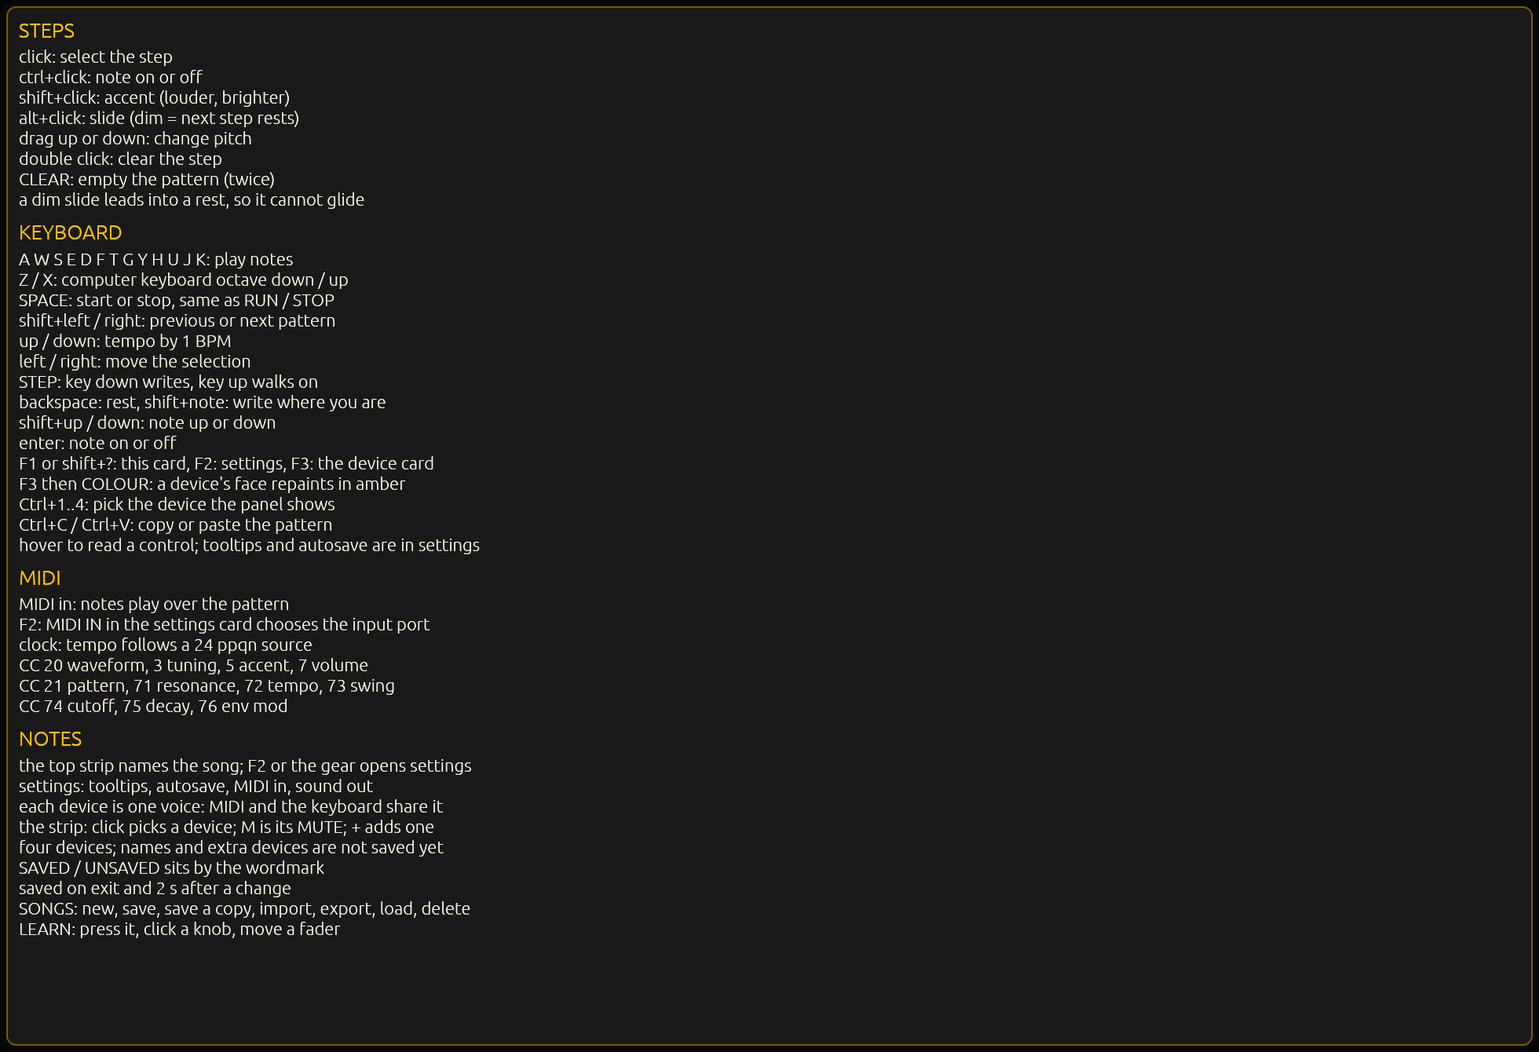
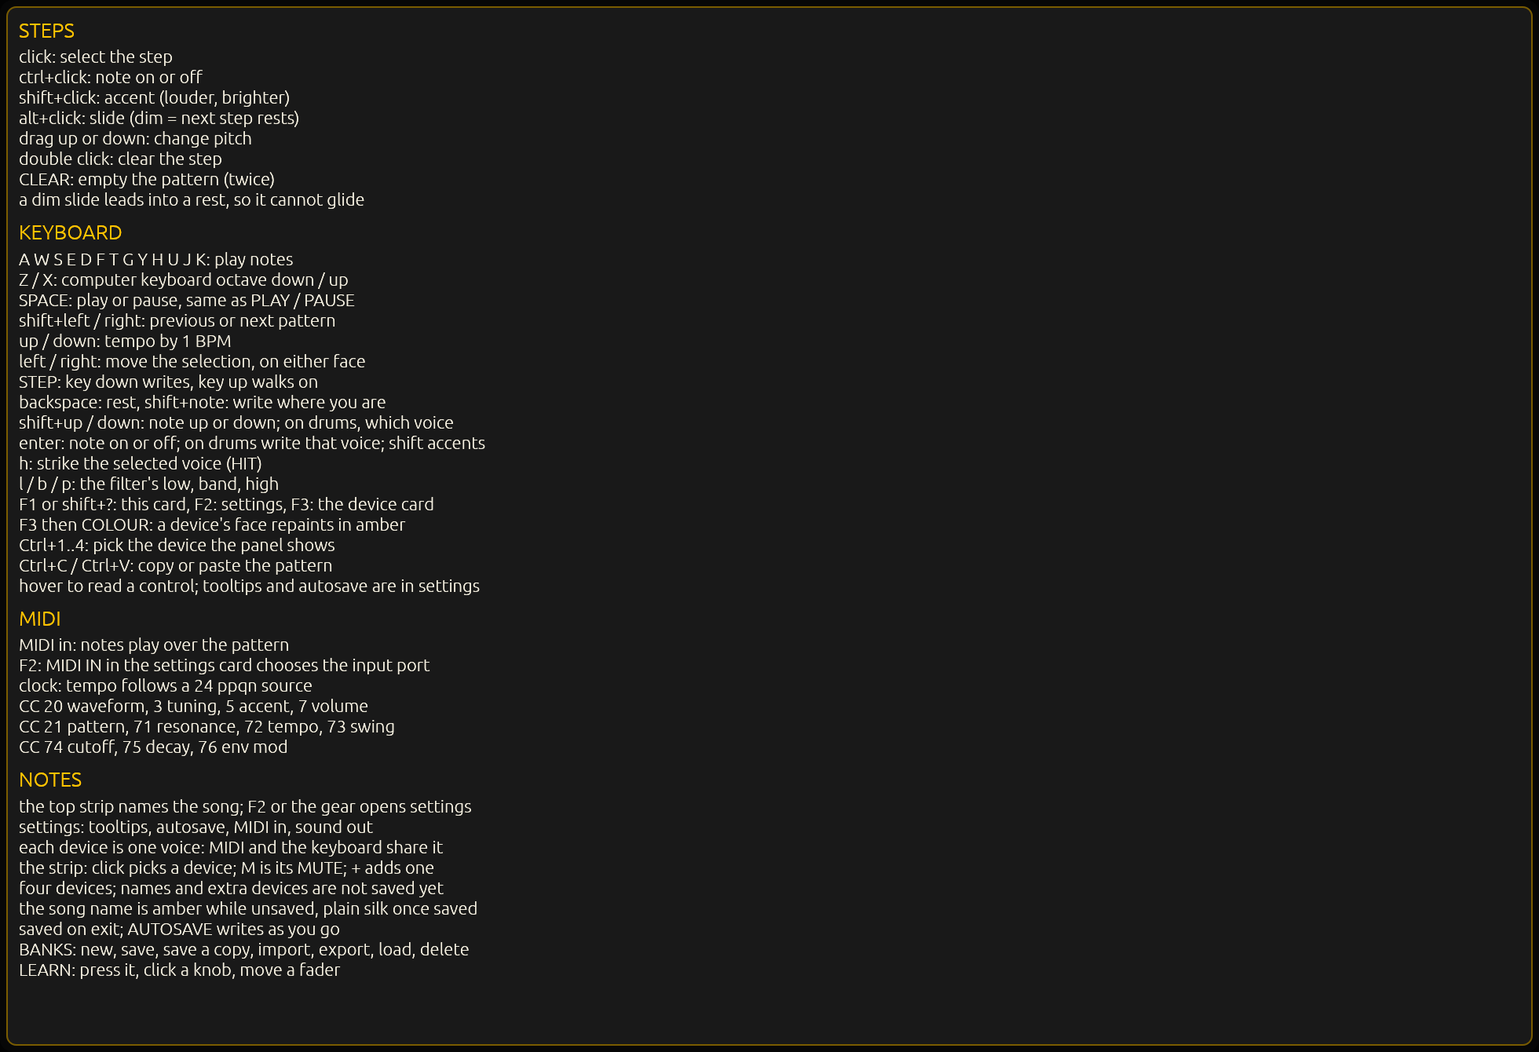
docs(guide): the drum face's letters, underlines and tooltips, and its pictures

Changed region(s): [[0.0, 0.3978, 0.3112, 0.9485], [0.0622, 0.2754, 0.2179, 0.306], [0.1867, 0.3366, 0.2179, 0.3672]]

diff --git a/rust/crates/acid-app/src/state.rs b/rust/crates/acid-app/src/state.rs
@@ -391,7 +391,7 @@ impl SharedState {
         self.kit.store(Arc::new(kit));
     }
 
-    /// Ask for a voice to be heard with the transport stopped. The renderer drains it at the next block.
+    /// Ask for a voice to be heard, stopped or running. The renderer drains it at the next block.
     pub fn request_audition(&self, drum: Drum) {
         // `Drum::index` is the only spelling of a voice's slot, and this is the one place it becomes the `-1`-sentinel number.
         self.audition.store(drum.index() as i32, Ordering::Relaxed);

diff --git a/docs/guide/src/img/README.md b/docs/guide/src/img/README.md
@@ -30,11 +30,18 @@ the build: the pictures are committed PNGs, and this note is what makes them rep
   The app was launched on a first run and then driven: `+` → `DRUMS` added `DRUMS 2`, which arrives on `808` (so the browser reads
   `NOW: 808 - READ ONLY`), then `BANKS` → `Hard Techno Acid` twice loaded that demo's drum bank into it (the session was unsaved,
   so the row asked first), and `F3` → the card's `KIT` row opened the browser, which is where `kit-browser.png` comes from. No
-  device was saved, so that picture shows a first run's rack with one extra machine on it. **`drum-face.png` was retaken on
-  2026-11-20 in the step-editor round** (`TAKKA_ACID_DATA_DIR=/tmp/takka-guide-06`, `Xvfb :87 -screen 0 2200x1500x24`): `+` →
-  `DRUMS`, the notice waited out, the pointer parked outside the window — so the picture shows the column that round added, on a
-  face with no bank loaded. The column sits on step 1, which is also a beat-framed column; the stroke is full height where the
-  frame is per cell, so the two read apart in the picture.
+  device was saved, so that picture shows a first run's rack with one extra machine on it.
+- **The keys-and-tooltips round's two pictures** (`drum-face.png`, `help-card.png`) were retaken on 2026-11-20 from a session of
+  their own: `TAKKA_ACID_DATA_DIR=/tmp/takka-guide-07`, emptied first, on `Xvfb :89 -screen 0 2200x1500x24` — `DISPLAY=:89
+  xdotool getdisplaygeometry` said `2200 1500` before the app was launched, and `xdotool getwindowgeometry` then said
+  `1960x1340`. `+` → `DRUMS` added `DRUMS 2`, which arrives on `808`; the notice was waited out and the pointer parked outside
+  the window for `drum-face.png`, which is where the new underlines under `H` on `HIT` and `L`/`B`/`P` on the filter are visible
+  (checked in a separate `-crop` grab before the picture was kept, never by cutting the finished image). `F1` put the card up
+  for `help-card.png`, sent as `xdotool key --window <id> F1`: under Xvfb with no window manager the window never takes the
+  keyboard focus, so a bare `xdotool key` is delivered nowhere and the grab comes out as the face again. The pointer was parked
+  outside the window for that grab too, so no tip and no notice is in either picture. The grid is empty because a first run's
+  drum machine has no bank; `drum-face.png`'s step column sits on step 1, which is also a beat-framed column, and the stroke is
+  full height where the frame is per cell, so the two read apart.
 
 ## The images
 
@@ -42,13 +49,13 @@ the build: the pictures are committed PNGs, and this note is what makes them rep
 |---|---|---|
 | `img/first-sound.png` | a first run: one device in the strip, `SONG New song` with the name in amber (the session is unsaved), pattern `A1`, the Slow Acid demo, stopped | launch, wait for the window |
 | `img/running.png` | the transport running: `PLAY` lit in the tape deck, `PAUSE` dark | `space` from the first-sound state |
-| `img/help-card.png` | the help card over the panel | `F1` |
+| `img/help-card.png` | the help card over the panel, with the drum face's keys on it: `left / right` on either face, the drum voice on `shift+up` / `down`, the write and its accent on `enter`, and the two lines of its own — `h` and `l` / `b` / `p` | `F1` on the drum session above, pointer parked outside the window |
 | `img/settings-card.png` | the settings card, `MIDI IN` naming the port in use | `F2` |
 | `img/banks-card.png` | the bank browser: `New song`, the five demo banks, an empty `MY BANKS` | click `BANKS` |
 | `img/device-card.png` | the device card for `ACID 1`: `COLOUR BLACK`, one port, `MUTE OFF` | `F3` |
 | `img/picker.png` | the picker: the `ACID` and `DRUMS` rows and `NAMES AND EXTRA DEVICES ARE NOT SAVED YET` | click `+` at the strip's right end |
 | `img/theme-list.png` | the card for `ACID 1` with the theme list open over it, the dot on `BLACK`, eleven of the twenty-two rows and the scroll thumb | `F3`; click `COLOUR`; park the pointer away from the knobs before grabbing, or their tooltip lands in the picture |
-| `img/drum-face.png` | the drum machine's face: `DRUMS 2` selected, `KICK` the selected voice, the grid empty with **the first step's column lit** — the step a key writes to — the seven voice dials, `LP | BP | HP`, `SHUFFLE` and `HIT`, and `KIT 808` at the right-hand end of the caption line above the dials | from the picker: click `+`, click `DRUMS`, wait for the notice to clear, and park the pointer outside the window (a hover tooltip would land in the picture). Retaken in the drum step-editor round, so the picture shows the selection the round added; the pattern is left empty on purpose, as a first run's drum machine is |
+| `img/drum-face.png` | the drum machine's face: `DRUMS 2` selected, `KICK` the selected voice, the grid empty with **the first step's column lit** — the step a key writes to — the seven voice dials, `LP | BP | HP` with `L`, `B` and `P` underlined on it, `SHUFFLE`, and `HIT` with its `H` underlined, and `KIT 808` at the right-hand end of the caption line above the dials | from the picker: click `+`, click `DRUMS`, wait for the notice to clear, and park the pointer outside the window (a hover tooltip would land in the picture). Retaken in the keys-and-tooltips round, so the picture says its own keys by eye; the pattern is left empty on purpose, as a first run's drum machine is |
 | `img/kit-browser.png` | the kit browser: `FACTORY` with `808`, `909` and `Acoustic`, each `- READ ONLY`, `MY KITS` under them and empty, `NOW: 808 - READ ONLY` — the kit a drum machine arrives on | `F3` on the drum device; click the card's `KIT` row |
 | `img/two-devices.png` | two devices, `ACID 1` black and selected, `ACID 2` on `FESTIVAL CITRUS` | from the picker, click `ACID`; `ctrl+2`; `F3`; click `COLOUR`; click the `FESTIVAL CITRUS` row; `Escape`; `ctrl+1` |
 | `img/strip.png` | the same strip, cropped: a black cell, a teal one, and `+` | `-crop 1960x76+0+24` in the state above |

diff --git a/plans/phase 4/07-the-drum-keys-and-tooltips.md b/plans/phase 4/07-the-drum-keys-and-tooltips.md
@@ -280,4 +280,37 @@ which are plan 06's.
       here") while this card tells the player they work**, so the push still depends on Task 5.
       Gates: `cargo test --workspace` **899**, clippy `-D warnings`, `fmt --check`.
 
-- [ ] Task 5 —
+- [x] **Task 5 — the book and the pictures.** Page 22: the filter's `l`, `b` and `p`, the underlines (`H` on `HIT`, `L`, `B` and
+      `P` under the filter's sides), the hover help, and `HIT` "stopped or running" in both places that make the claim; the
+      *No per-voice hover help yet* bullet is deleted outright and a negative guard in `check.sh` keeps it from returning. Page
+      15: the "letters are silent this phase" sentence now names `h`, `l` / `b` / `p` and the walk, the drum editing paragraph
+      gains the filter's letters and the underline, and the "one voice" paragraph's letter list names them too. Page 20: a new
+      keyboard-table row for `l` / `b` / `p`, and the drum-face paragraph gains the underline and hover sentences. `check.sh`
+      pins '`l`, `b` and `p`', 'control is underlined on it', 'stopped or running' and 'Every control in the row explains
+      itself', with the two older drum pins ('walk it up and down the grid', 'strikes the selected voice') untouched.
+      **Both pictures retaken** on `Xvfb :89 -screen 0 2200x1500x24`: `xdotool getdisplaygeometry` said `2200 1500` before the
+      app was launched, `getwindowgeometry` said `1960x1340`, `TAKKA_ACID_DATA_DIR=/tmp/takka-guide-07` emptied, `+` → `DRUMS`,
+      the notice waited out, the pointer parked outside the window for `drum-face.png`; `F1` for `help-card.png`, sent as
+      `xdotool key --window <id> F1` because an unfocused window under Xvfb ignores a bare key and the first grab of the card
+      came out as the face again. Both grabs were looked at: the `H` on `HIT` and the `L`/`B`/`P` on the filter are visible, the
+      card's five drum lines are on it and the card still fits, and no tip or notice is in either frame (checked in a separate
+      `-crop` grab first, never by cutting the finished picture). `img/README.md` gained the session paragraph and both rows;
+      `00-phase-4.md` lists 07 as a finished round and its State line says **899** tests and `SAVE_VERSION` **11**; the
+      wishlist's "The help card knows only the 303's keys" is deleted, per that file's own rule.
+      **Mutations: 4 of 4 caught** (`.superpowers/mutate_guide.py`): the underline claim gone from all three pages, the `HIT`
+      claim back to stopped-only, the retired bullet returned, and the filter's letters gone — each fails `check.sh` by name.
+      **Review: BLOCK on three Importants and three Minors, all actioned.** (1) "each name what they do and the key that does
+      it" was false for the seven dials — no key presses them — so the sentence now says the dials say what they do and the
+      filter key and `HIT` name the letter. (2) Page 15 had a duplicated "On a drum device" left from the rewrite, leaving the
+      sentence without a subject. (3) Page 22 contradicted itself on this round's own fact — `HIT` "with the bar stopped" in one
+      paragraph, "stopped or running" in the next — and both now agree with the tip. Of the Minors: the hover claim got a
+      positive pin (it was only negatively guarded), the wishlist deletion left a double blank line, and 07 is written in the
+      list as a finished round rather than "in flight". Of the notes: page 15's letter list now names the filter's letters; the
+      `state.rs` doc comment for `request_audition` still said "with the transport stopped" — a doc the round's tip exposed as a
+      lie — so it says "stopped or running" now and the rust gates were re-run for it; and the README's old step-editor-round
+      bullet is folded into the new session paragraph, with the column still described. **The pin for the underline claim is
+      narrower than the first attempt** ('control is underlined on it', not 'underlined on it') because the picture ledger uses
+      the shorter phrase in its own row — which is what a mutation caught, since the ledger alone would have satisfied the
+      pin while all three pages lost the claim.
+      Gates: `cargo test --workspace` **899**, clippy `-D warnings`, `fmt --check`, `./docs/guide/check.sh` ok.
+

diff --git a/docs/guide/src/22-the-drum-machine.md b/docs/guide/src/22-the-drum-machine.md
@@ -38,14 +38,15 @@ stops at the top row and the bottom one rather than wrapping round. While a card
 keys, because a card is modal.
 
 **`h`** strikes the selected voice — the same hit as `HIT` — so a kit can be walked with the arrows and heard with one key. A
-card does not stop it: a hit is a sound, not an edit. The rest of the letters stay silent here; they are the 303's notes.
+card does not stop it: a hit is a sound, not an edit. The other letters play nothing here — they are the 303's notes — apart
+from the filter's `l`, `b` and `p`, below.
 
 The step is edited the same way, one step over: **`left` / `right` move the selected step**, a lit column across the sixteen
 rows, and **`enter` writes the selected voice into it** — silently, as a 303 step is written without a sound; a second `enter`
 takes the hit off again. **`shift+enter`** is the grid's accent gesture, so an empty cell takes an accented hit, a plain strike
 is accented and an accented one is taken off. The selection stays where it is after a write, unlike the 303's `STEP`, because a
 step here holds sixteen voices and a hand writes several before moving on. `HIT` and `h` still play the voice without writing
-it, either of them with the bar stopped.
+it, either of them with the bar stopped or running.
 
 ## The dials
 
@@ -61,10 +62,15 @@ The seven knobs stay where the 303 puts them and are **the selected voice's**, n
 | `RESONANCE` | how much the corner is emphasised |
 | `TUNE` | the voice's pitch, in semitones either way |
 
-Beside the waveform switch's place is a three-way key, **`LP | BP | HP`** — low-pass, band-pass, high-pass. It is a different
-filter from the 303's on purpose (a state-variable one, where the 303's is a ladder), but its cutoff and resonance are the
-303's own knob positions, so a `BP` open hat and a `LP` kick are the same idea heard two ways. **`HIT`** plays the
-selected voice once, with the transport stopped, which is how a voice is tuned without writing it into the bar.
+Beside the waveform switch's place is a three-way key, **`LP | BP | HP`** — low-pass, band-pass, high-pass, picked from the
+keyboard with `l`, `b` and `p`. It is a different filter from the 303's on purpose (a state-variable one, where the 303's is a
+ladder), but its cutoff and resonance are the 303's own knob positions, so a `BP` open hat and a `LP` kick are the same idea
+heard two ways. **`HIT`** plays the selected voice once, stopped or running, which is how a voice is tuned without writing it
+into the bar.
+
+The letter that presses a control is underlined on it — `H` on `HIT`, `L`, `B` and `P` under the filter's three sides — so
+the keyboard can be learned by eye and not only from this page. Every control in the row explains itself on hover: the
+dials say what they do, and the filter key and `HIT` name the letter that presses them.
 
 **`SHUFFLE`** is the odd one out and sits apart from the seven, between the filter key and `HIT`: it is not the voice's
 dial, it is the **device's** swing — the same clock control the 303 keeps in its performance row, and it swings the drums
@@ -119,8 +125,6 @@ A drum bank is patterns, not a song. The grooves last the session — a save sti
   scale are the 303's. `BANK`, `PATTERN`, `COPY`, `PASTE`, `SAVE`, `BANKS` and `STEP` keep their places on the switches row.
 - **One hit per voice at a time.** A second strike on the same voice retriggers it rather than layering, and a hat's
   choke group — the closed hat cuts the open one — is how the pair sounds like one hi-hat.
-- **No per-voice hover help yet.** The seven dials, the filter key and `HIT` print their captions and nothing more; the
-  shared keys keep the 303's tips.
 - **`LEARN` has nothing to teach on the drum's own controls.** A drum voice takes no controller this round, so on a drum face
   `LEARN` can bind the shared controls — `VOLUME`, and the tempo and pattern readouts — and nothing on the voice's dials, the
   filter key or `HIT`. Those stand still while it is choosing a control, rather than turning the voice under a hand that meant

diff --git a/docs/guide/src/15-keyboard.md b/docs/guide/src/15-keyboard.md
@@ -15,9 +15,10 @@ use. `Z` and `X` move the octave down and up, between two octaves down and two u
 
 A held key keeps the note sounding; the gate closes when every mapped key is up. There is one voice **per acid device**, so
 a computer key and a MIDI keyboard play the same oscillator on the device the panel is showing, and the last one pressed
-wins. A key released while a MIDI note is sounding ends that note too — one voice, one gate, no exceptions. On a drum device
-the letters are silent this phase — its voices belong to the grid — except `h`, which strikes the selected voice, and
-`shift+up` / `shift+down` walk that grid's selection instead ([`22-the-drum-machine`](22-the-drum-machine.md)).
+wins. A key released while a MIDI note is sounding ends that note too — one voice, one gate, no exceptions.
+On a drum device the letters play nothing — its voices belong to the grid — except `h`, which strikes the selected voice;
+`l` / `b` / `p` choose a side of that voice's filter, and `shift+up` / `shift+down` walk the grid's selection instead
+([`22-the-drum-machine`](22-the-drum-machine.md)).
 
 What you hear when you play a key is the same pitch that key would write into a step, so auditioning and editing can never
 disagree about which note is which.
@@ -40,7 +41,9 @@ The four keys that do the editing, in the order you will meet them:
 
 On a drum device the same keys edit the grid, because a step there holds sixteen voices and no note: `left` / `right` move the
 selected step, `shift+up` / `shift+down` move the selected voice, `enter` writes that voice into that step and `shift+enter`
-accents it. Nothing is written as a note, and the selection does not walk on after a write.
+accents it. `l` / `b` / `p` choose the low, band or high side of the selected voice's filter, and the letter that presses a
+control is underlined on it, so the face says its own keys. Nothing is written as a note, and the selection does not walk on
+after a write.
 
 Everything else — the transport, the tempo, `shift+left` / `shift+right` for the next pattern, `Ctrl+1`…`Ctrl+4` for the
 device on the panel, `F3` for its card, `Ctrl+C` / `Ctrl+V` for the pattern, and the cards themselves — is on one table in
@@ -54,9 +57,8 @@ notes the machine would have to drop.
 
 Four machines in one window does not change that. A device is still one voice, played by one gate — a drum machine's sixteen
 voices are the grid's, and a letter key pressed with it on the panel sounds nothing this phase, except `h`, which strikes the
-selected voice; only the arrows walk its voices. What the rack gives you is four of them side by side, each with its own line
-and its own inputs
-([`18-a-rack-of-devices`](18-a-rack-of-devices.md)).
+selected voice, and `l` / `b` / `p` pick its filter's side; only the arrows walk its voices. What the rack gives you is four
+of them side by side, each with its own line and its own inputs ([`18-a-rack-of-devices`](18-a-rack-of-devices.md)).
 
 If you want chords, you want another instrument. If you want a line that talks, this is the one, and the keyboard is the
 fastest way to write it.

diff --git a/plans/phase 4/00-phase-4.md b/plans/phase 4/00-phase-4.md
@@ -20,9 +20,10 @@ same bar, banks, transport and themes. Rounds live here as `NN-topic.md`, one pe
 - [`06-the-drum-step-editor`](06-the-drum-step-editor.md) — the drum grid gains the 303's step editor: plain `left` / `right`
   move a lit column, `enter` writes the selected voice into that step (silently; `shift+enter` accents), and the selection does
   not advance on a write.
-- [`07-the-drum-keys-and-tooltips`](07-the-drum-keys-and-tooltips.md) — **planned, next.** The filter takes `L` / `B` / `P`,
-  each key underlines the letter that presses it (`H` on `HIT`), every drum control gets a tooltip, and the help card learns
-  the drum face's keys.
+- [`07-the-drum-keys-and-tooltips`](07-the-drum-keys-and-tooltips.md) — the drum face's keys can be learned by eye and by
+  hover: the filter takes `L` / `B` / `P`, the letter that presses a control is underlined on it (`H` on `HIT`, `L` / `B` / `P`
+  on the filter), each of the nine explains itself on hover, and the help card, the guide and its two pictures learn the drum
+  face's keys.
 
 **Spec:** [`docs/superpowers/specs/2026-11-18-drum-machine-design.md`](../../docs/superpowers/specs/2026-11-18-drum-machine-design.md)
 — approved in conversation on 2026-11-18. The plan argues from it; where they disagree, the spec wins and this plan is wrong.
@@ -30,11 +31,11 @@ same bar, banks, transport and themes. Rounds live here as `NN-topic.md`, one pe
 **Gate:** unchanged from phases 1–3 — the three workspace commands, `docs/guide/check.sh` when the book moves, and a fresh
 subagent review before every commit (`AGENTS.md`).
 
-**State: complete, 2026-11-19; five rounds since, one planned (07).** All ten tasks are committed on `phase-4` (local
-only — nothing is pushed). The branch is the whole round: `cargo test --workspace` **870**, `cargo clippy --workspace
+**State: complete, 2026-11-19; six rounds since, the last finished 2026-11-20.** All ten tasks are committed on `phase-4`
+(local only — nothing is pushed). The branch is the whole round: `cargo test --workspace` **899**, `cargo clippy --workspace
 --all-targets -- -D warnings`, `cargo fmt --check` and `./docs/guide/check.sh` all green at its head, and each task's own
-mutation run is recorded in the plan's `## Progress`. `SAVE_VERSION` is **11**; the rack round takes **12**. The whole-branch
-review's findings are in `handover-phase-5`.
+mutation run is recorded in the plans' `## Progress`. `SAVE_VERSION` is **11** — rounds 02–07 touched no field of it, so the
+rack round still takes **12**. The whole-branch review's findings are in `handover-phase-5`.
 
 **Rulings this phase rests on, and what they cost if wrong:**
 

diff --git a/docs/guide/src/20-reference.md b/docs/guide/src/20-reference.md
@@ -30,6 +30,7 @@ Three tables and the files: every gesture, the factory controller map, and the w
 |---|---|
 | `A W S E D F T G Y H U J K` | play a chromatic scale; with `shift` or `STEP`, write the note to the selected step |
 | `h` | on a drum device, strike the selected voice — `HIT`'s key |
+| `l` / `b` / `p` | on a drum device, the low, band or high side of the selected voice's filter |
 | `Z` / `X` | octave down / up, two either way |
 | `space` | play / pause, same as `PLAY` / `PAUSE` |
 | `,` | step the playhead back a bar (drawn, not wired yet) |
@@ -115,8 +116,10 @@ machine's, and the name of the kit it plays), `MUTE OFF` / `MUTE ON`, `REMOVE`, 
 and `SHUFFLE` set apart from the seven because it is the device's swing. That voice's name is printed above the dials. The
 grid's sixteen rows are `KICK`, `SNR`, `RIM`, `CLAP`, `CHH`, `OHH`, `LOT`, `MID`, `HTOM`, `CRS`, `RDE`, `CWB`, `LCO`, `HCO`,
 `CLV`, `SHK`, one per voice top to bottom, and one cell per step: a click strikes, `SHIFT`-click accents, a click on the
-label selects the voice and `SHIFT`-click on the label mutes it. `OCT`, `CLEAR`, `RANDOM` and the density and scale dials are
-not on that face, `STEP` lights and writes nothing there, and the machine takes no notes this round.
+label selects the voice and `SHIFT`-click on the label mutes it. The letter that presses a control is underlined on it — `H`
+on `HIT`, `L`, `B` and `P` under the filter's sides — and each of those nine controls explains itself on hover. `OCT`, `CLEAR`,
+`RANDOM` and the density and scale dials are not on that face, `STEP` lights and writes nothing there, and the machine takes no
+notes this round.
 
 **The clipboard's notices**, in the same corridor as the name: `copied A1`, `pasted A1 into A2`, `the clipboard has no pattern`.
 

diff --git a/plans/future/wishlist.md b/plans/future/wishlist.md
@@ -165,18 +165,6 @@ transport change, not a sequencer change.
 
 ## Panel
 
-### The help card knows only the 303's keys
-
-**What it would do.** `ui/help.rs` lists the 303's keys — the scale, the arrows, `shift+up` / `shift+down` for the note — and
-says nothing about the drum face's: `shift+up` / `shift+down` walk the voices and `h` strikes the selected one. Plans 03 and 05
-each added a key the card does not know, so a player reading it on a drum machine gets the other face's answer.
-
-**Why not now.** The card is a face: a line more or less changes its measured height (`help_content_height`) and the pinned
-`help-card.png`, so it is a round of its own rather than a line at the end of another.
-
-**What would have to move.** `ui/help.rs`'s keyboard block gains a drum-face line, the card's height follows it, a live test
-asks for the painted text, and `img/README.md` records the retaken picture.
-
 ### Drag to reorder devices
 
 Rejected in phase 2 because the rack's selection, the strip's cells and the input filters all key on position and a drag is a
